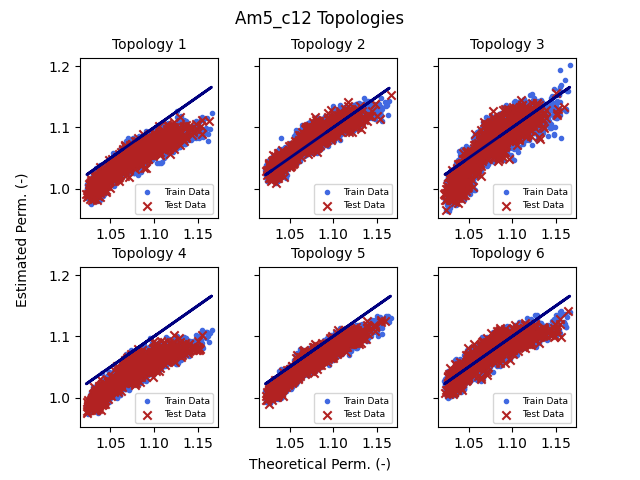
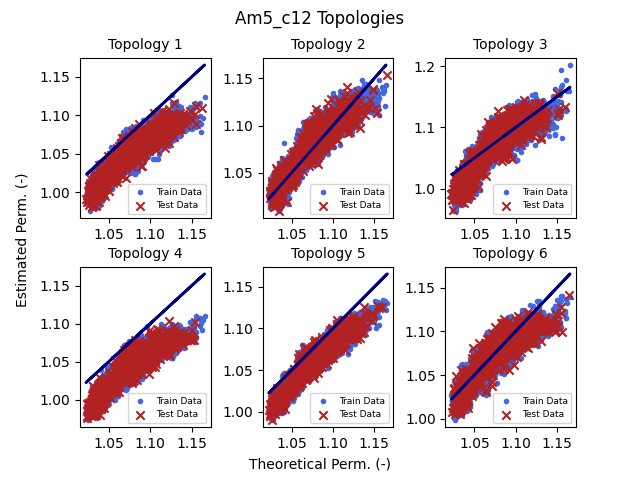
all topologies tested

diff --git a/PostProcessing1.py b/PostProcessing1.py
@@ -14,7 +14,7 @@ rows = 2
 cols = 3
 
 # set data plot
-fig1, ax = plt.subplots(rows, cols, sharex=False, sharey=True)
+fig1, ax = plt.subplots(rows, cols, sharex=False, sharey=False)
 for i in range(0, rows):
     for j in range(0, cols):
         # Read from CSV of Model Topology
@@ -75,13 +75,14 @@ for i in range(0, rows):
             ax[i, j].scatter(TestTopologyDataframe['Keq/Kpm_teo'],
                             TestTopologyDataframe['Keq/Kpm_est'], color='firebrick', marker='x', label = 'Test Data')
             ax[i,j].legend(loc = "lower right", fontsize = 6.5)
+fig1.subplots_adjust(left=None, bottom=None, right=None, top=None, wspace=0.4, hspace=0.3)
 fig1.text(0.5, 0.025, 'Theoretical Perm. (-)', ha = 'center', fontsize = 10)
 fig1.text(0.025, 0.5, 'Estimated Perm. (-)', va = 'center', rotation = 'vertical', fontsize = 10)
 fig1.suptitle(caseID+' Topologies')
 fig1.savefig('./vCNN/Topologies/'+caseID+'_Topologies.png')
         
 # set data distribution
-fig2, ax2 = plt.subplots(rows, cols, sharex=False, sharey=True)
+fig2, ax2 = plt.subplots(rows, cols, sharex=False, sharey=False)
 for i in range(0, rows):
     for j in range(0, cols):
         # define Topology
@@ -105,6 +106,7 @@ for i in range(0, rows):
             ax2[i,j].xaxis.set_major_formatter(ticker.FormatStrFormatter('%.2f'))        
         else:
             break
+fig2.subplots_adjust(left=None, bottom=None, right=None, top=None, wspace=0.4, hspace=0.3)
 fig2.text(0.5, 0.025, 'Error (-)', ha = 'center', fontsize = 10)
 fig2.text(0.025, 0.5, 'Density', va = 'center', rotation = 'vertical', fontsize = 10)
 fig2.suptitle(caseID+' Topologies Test Data Normal Distribution')

diff --git a/main.py b/main.py
@@ -48,11 +48,11 @@ am8_c12x = [s for s in am8_c12 if "_x" in s]
 am8_c12y = [s for s in am8_c12 if "_y" in s]
 
 # change subset and change Model Configurations in Inputs.py
-subset = am5_c12
-caseID = 'Am5_c12'
+subset = am8_c34
+caseID = 'Am8_c34'
 #caseId = 'Train_ValSplit_15_'+caseID+'_Test_Same_TestGroupEval'
 
-imFiles, Porous, Perms, PMPerms = read_perm_data("Data/AMs_data.csv",delimiter=",", imlist = am5_c12)
+imFiles, Porous, Perms, PMPerms = read_perm_data("Data/AMs_data.csv",delimiter=",", imlist = subset)
 # Using Pandas Dataframes
 Dataframe = pd.read_csv("Data/AMs_data.csv",sep=',')
 
@@ -126,7 +126,7 @@ model = ModelTopology(X)
 model_top = 'Topology '+ topologyName
 whole_time = time.time()
 X_train, X_test, y_train, y_test = train_test_split(X, y, test_size=0.15)
-model.fit(x = X_train,y = y_train, batch_size = 50, epochs = 20, validation_split = 0.15, callbacks = [tensorboard,cp_callback])
+model.fit(x = X_train,y = y_train, batch_size = 10, epochs = 20, validation_split = 0.15, callbacks = [tensorboard,cp_callback])
 
 # predict train
 y_trainPred = model.predict(x = X_train)

diff --git a/ModelDefinitions.py b/ModelDefinitions.py
@@ -19,21 +19,21 @@ def ModelTopology(XInput):
     model = Sequential()
 
     # Layer 1: Covolutional Layer
-    model.add(Conv2D(256,(7,7),input_shape = XInput.shape[1:]))
+    model.add(Conv2D(256,(5,5),input_shape = XInput.shape[1:]))
     model.add(Activation("relu"))
 
     # Layer 2: MaxPooling
     model.add(MaxPooling2D(pool_size = (2,2)))
 
     # Layer 3: Covolutional Layer
-    model.add(Conv2D(128, (5,5)))
+    model.add(Conv2D(128, (3,3)))
     model.add(Activation("relu"))
 
     # Layer 4: MaxPooling
     model.add(MaxPooling2D(pool_size = (2,2)))
 
     # Layer 5: Covolutional Layer
-    model.add(Conv2D(64, (5,5)))
+    model.add(Conv2D(64, (3,3)))
     model.add(Activation("relu"))
 
     # Layer 6: MaxPooling

diff --git a/Inputs.py b/Inputs.py
@@ -9,7 +9,7 @@ batch_size = 1
 imgSize=300
 
 # model name configuration
-batchName = '5'
-threshName = '_12_'
-topologyName = '4'
+batchName = '8'
+threshName = '_34_'
+topologyName = '2'
 modelName = "CNNPerm_"+batchName+threshName+topologyName
